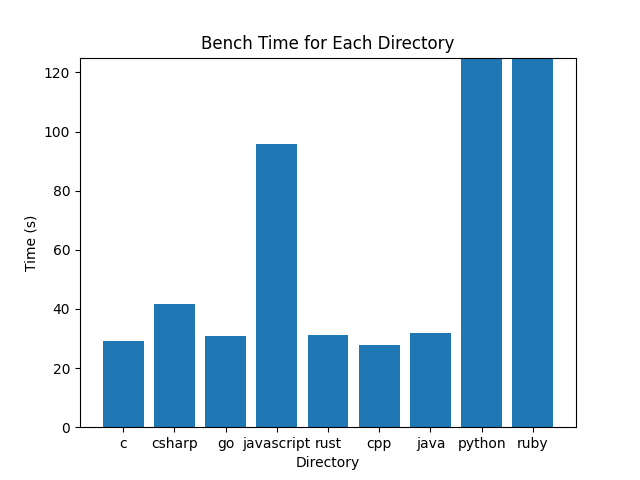
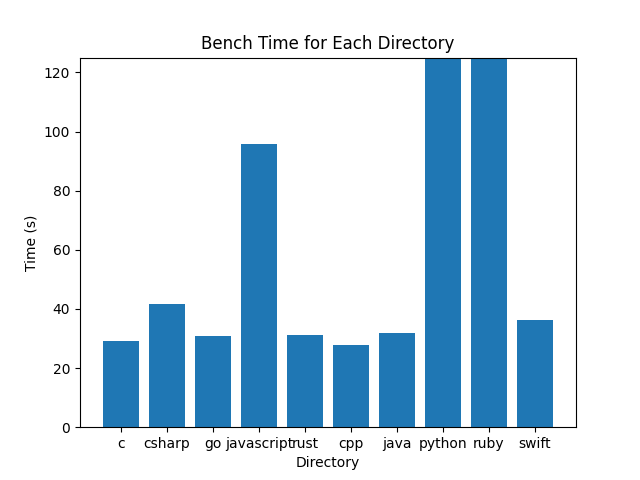
swift

Changed region(s): [[0.1875, 0.125, 0.875, 0.9375]]

diff --git a/languages/swift/idiomatic/brainfuck.swift b/languages/swift/idiomatic/brainfuck.swift
@@ -22,11 +22,11 @@ func writeCurCell(_ state: inout State, value: UInt8) {
 }
 
 func incCurCell(_ state: inout State) {
-    writeCurCell(&state, value: readCurCell(&state) + 1)
+    writeCurCell(&state, value: readCurCell(&state) &+ 1)
 }
 
 func decCurCell(_ state: inout State) {
-    writeCurCell(&state, value: readCurCell(&state) - 1)
+    writeCurCell(&state, value: readCurCell(&state) &- 1)
 }
 
 func main(args: [String]) {
@@ -44,12 +44,10 @@ func main(args: [String]) {
 
 	let program = [UInt8](program_str.utf8);
 
-    let filesize = program.count
-
     var state = State()
     var instr_pointer = 0
 
-    while instr_pointer < filesize {
+    while instr_pointer < program.count {
         let command = program[instr_pointer]
 
         switch UnicodeScalar(command) {
@@ -71,7 +69,7 @@ func main(args: [String]) {
         case "[":
             if readCurCell(&state) == 0 {
                 var depth = 1
-                while depth > 0 && instr_pointer < filesize {
+                while depth > 0 && instr_pointer < program.count {
                     instr_pointer += 1
                     if UnicodeScalar(program[instr_pointer]) == "[" {
                         depth += 1

diff --git a/languages/ruby/idiomatic/brainfuck.rb b/languages/ruby/idiomatic/brainfuck.rb
@@ -17,8 +17,8 @@ State = Struct.new(:cells, :pos) do
     self.cells[self.pos] = value
   end
 
-  def inc_cur_cell() = self.write_cur_cell(self.read_cur_cell + 1)
-  def dec_cur_cell() = self.write_cur_cell(self.read_cur_cell - 1)
+  def inc_cur_cell() = self.write_cur_cell((self.read_cur_cell + 1) % 256)
+  def dec_cur_cell() = self.write_cur_cell((self.read_cur_cell - 1) % 256)
 end
 
 program = IO.read(ARGV.first)

diff --git a/table.md b/table.md
@@ -9,3 +9,4 @@
 | java        |   32.0129 |
 | python      | 6163.07   |
 | ruby        | 4146.02   |
+| swift       |   36.3749 |
